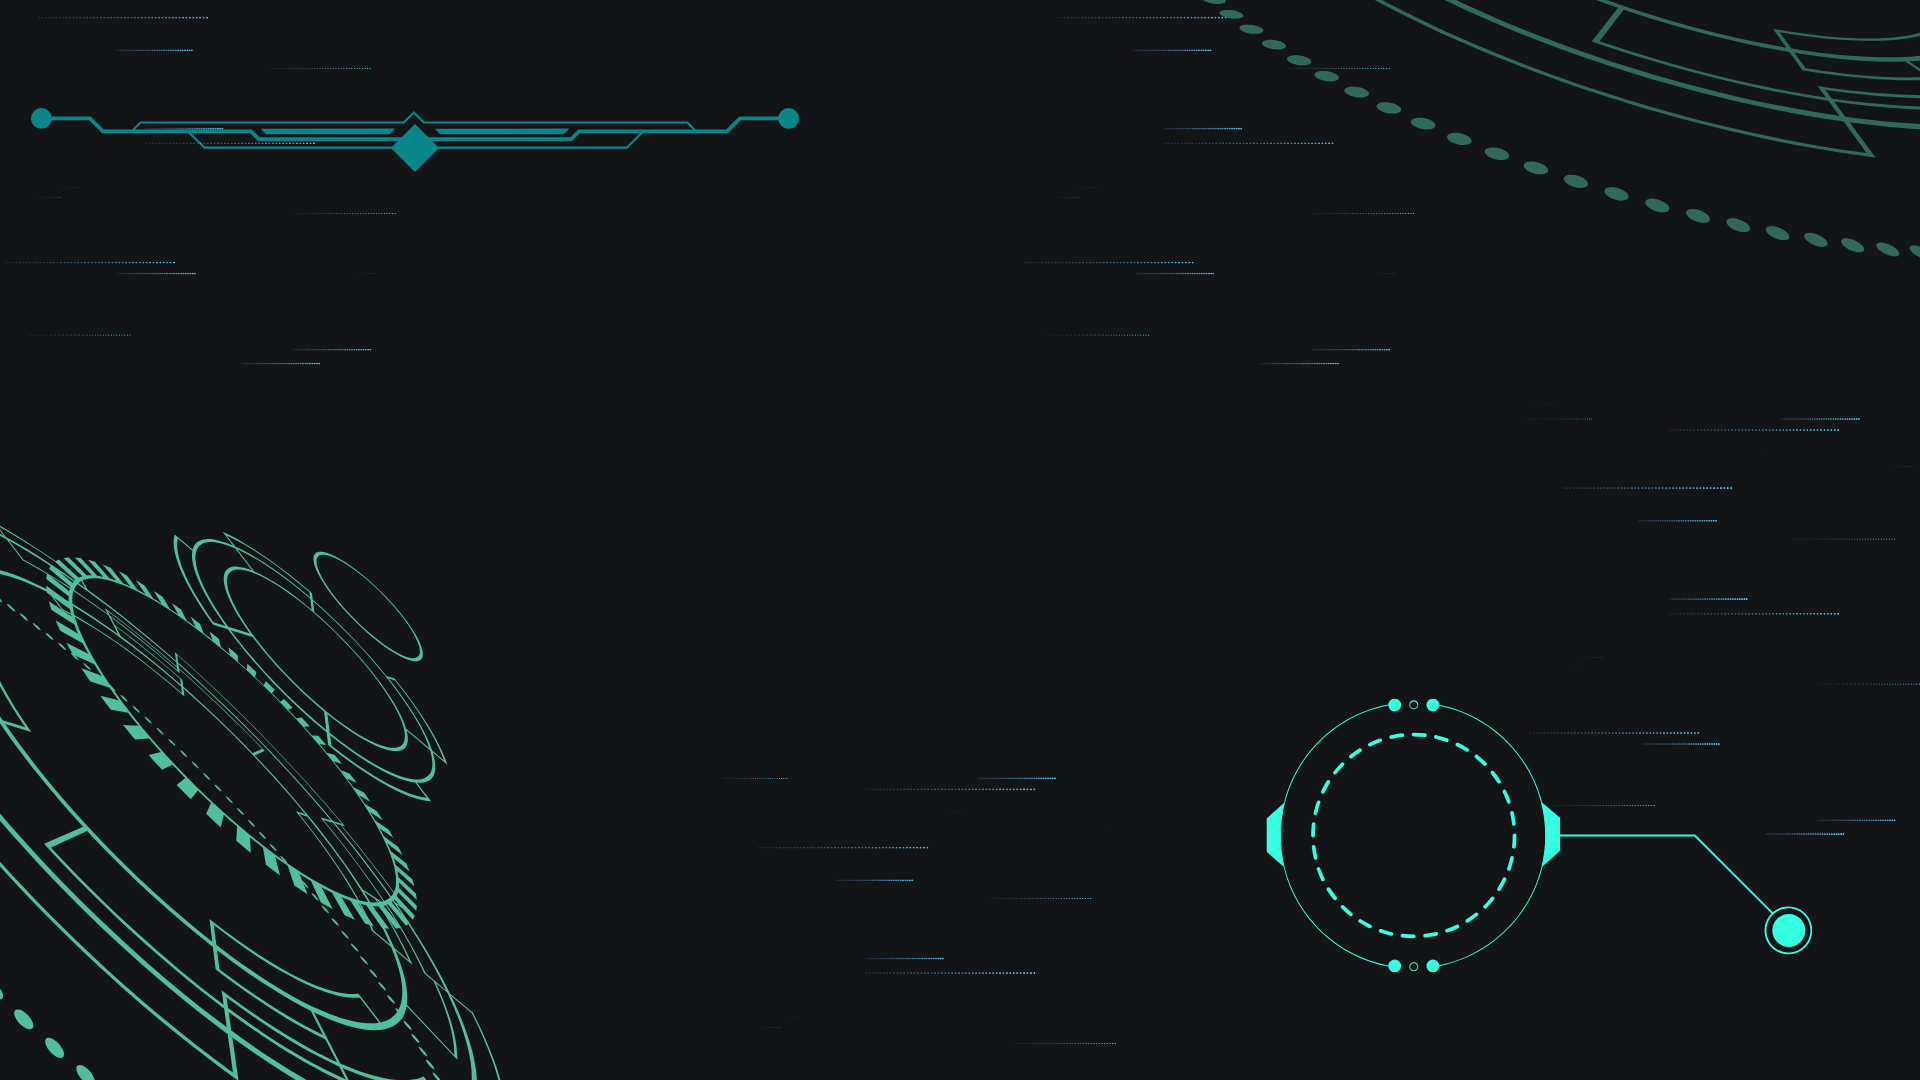
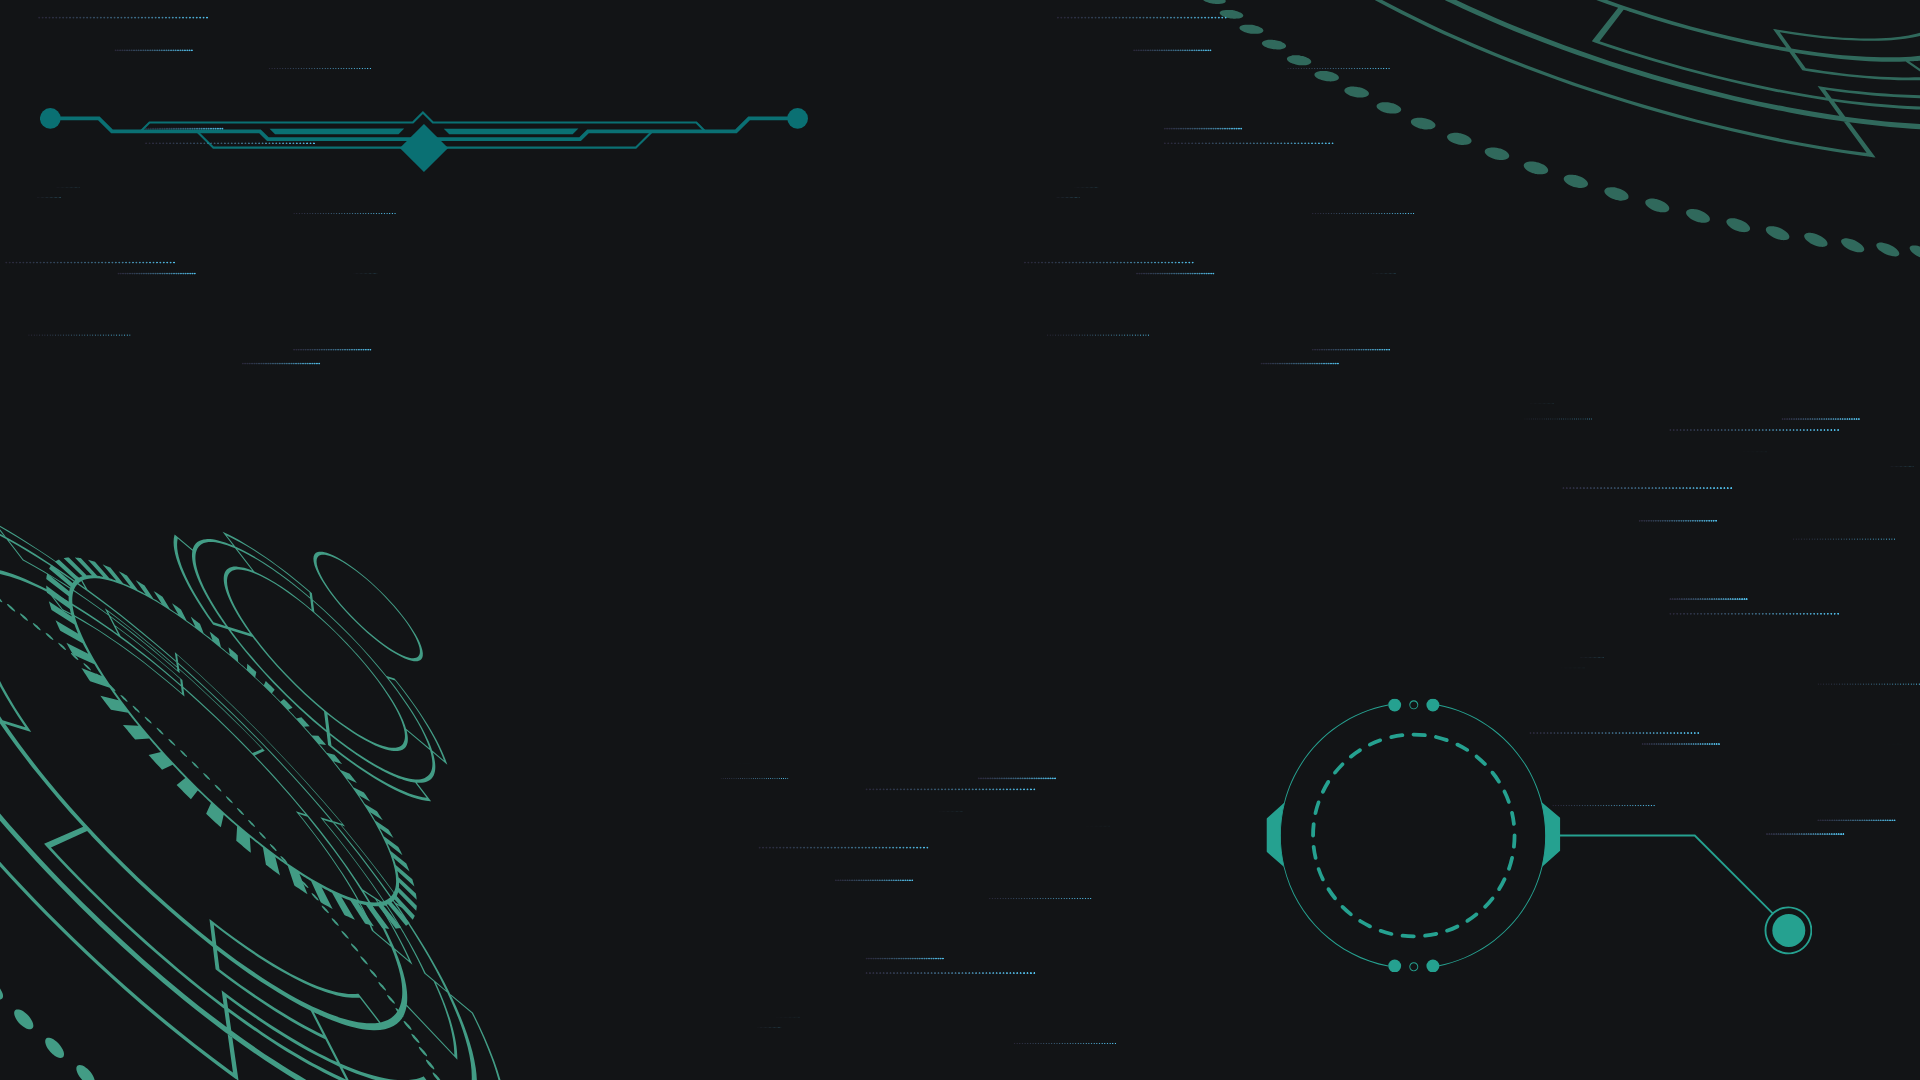
transition

diff --git a/script.js b/script.js
@@ -139,7 +139,7 @@ document.addEventListener("DOMContentLoaded", () => {
       } else {
         showResultBox();
       }
-    }, 50); // Délai global pour changer la question
+    }, 200); // Délai global pour changer la question
   };
 
   closeBtn.addEventListener("click", () => togglePopup(false));

diff --git a/scripthard.js b/scripthard.js
@@ -141,7 +141,7 @@ document.addEventListener("DOMContentLoaded", () => {
       } else {
         showResultBox();
       }
-    }, 50); // Délai global pour changer la question
+    }, 200); // Délai global pour changer la question
   };
 
   closeBtn.addEventListener("click", () => togglePopup(false));

diff --git a/style.css b/style.css
@@ -58,7 +58,7 @@ body {
 
 .main {
   min-height: 100vh;
-  background: url("images/back2.png") no-repeat;
+  background: url("images/back3.png") no-repeat;
   background-size: cover;
   background-position: center;
 }
